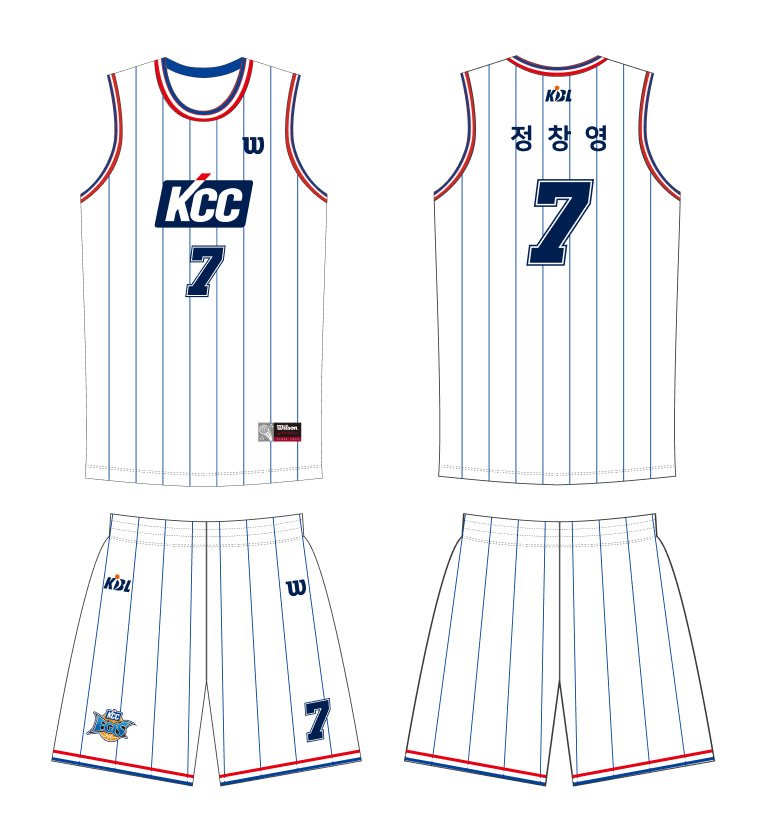
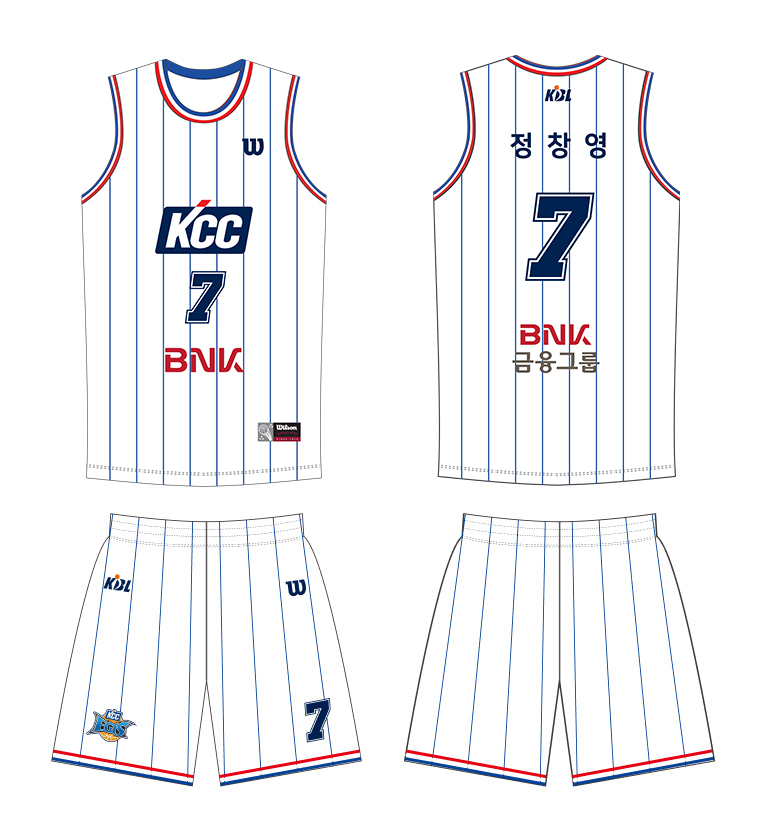
스폰서 추가, 관리자페이지 중계방송수정버튼 추가

diff --git a/src/main/webapp/resources/common/assets/js/link.js b/src/main/webapp/resources/common/assets/js/link.js
@@ -29,6 +29,7 @@ function siteLink() {
 		WILSON: 'https://kr.wilson.com/', // 윌슨
 		호식이두마리치킨: 'https://www.9922.co.kr/', // 호식이두마리치킨
 		MOMOS: 'https://www.momos.co.kr/', // 모모스
+		BUSAN: 'https://www.humetro.busan.kr/default/main.do', // 부산교통공사
 	}
 
 	const updateLink = (link, url) => $(link).attr('href', linkURL[url]);

diff --git a/src/main/java/com/esoom/kcc/controller/AdminController.java b/src/main/java/com/esoom/kcc/controller/AdminController.java
@@ -460,6 +460,21 @@ public class AdminController {
 		return String.valueOf(result);
 	}
 	@ResponseBody
+	@RequestMapping(value = "/tvUpdate", method = RequestMethod.GET)
+	public String tvUpdate(String tv_play,String season_code,String game_code,String game_no)throws Exception {
+		Map<String, Object> paramMap = new HashMap<String, Object>();
+		paramMap.put("tv_play", tv_play);
+		paramMap.put("season_code",season_code);
+		paramMap.put("game_code", game_code);
+		paramMap.put("game_no", game_no);
+		int result = service.updateTeamScheduleOnair(paramMap);
+		String result2 = "false";
+		if(result>0) {
+			result2 = "true";
+		}
+		return result2;
+	}
+	@ResponseBody
 	@RequestMapping(value = "/updateState", method = RequestMethod.GET)
 	public String updateState(int num,ModelAndView mv,String str)throws Exception {
 		Map<String, Object> paramMap = new HashMap<String, Object>();
@@ -2439,7 +2454,6 @@ public class AdminController {
 		String game_date = request.getParameter("game_date")!=null?request.getParameter("game_date"):"";
 		String game_start = request.getParameter("game_start")!=null?request.getParameter("game_start"):"";
 		String stadium_code = request.getParameter("stadium_code");
-		String tv_play = request.getParameter("tv_play")!=null?request.getParameter("tv_play"):"";
 		String hteam = request.getParameter("hteam");
 		String ateam = request.getParameter("ateam");
 		String[] hScore = new String[5];
@@ -2460,7 +2474,6 @@ public class AdminController {
 		paramMap.put("game_date", game_date.replaceAll("-", ""));
 		paramMap.put("game_start", game_start.replaceAll(":", ""));
 		paramMap.put("stadium_code", stadium_code);
-		paramMap.put("tv_play", tv_play);
 		paramMap.put("hteam", hteam);
 		paramMap.put("ateam", ateam);
 		List<Map<String,Object>> scoreList = new ArrayList<Map<String,Object>>();
@@ -2527,13 +2540,6 @@ public class AdminController {
 		if( result < 0) {
 			//스케줄실패
 			System.out.println("스케줄");
-			mv.addObject("msg", "서버 오류! 관리자에게 문의 바랍니다.");
-			mv.setViewName("admin/etc/gScheduleList");
-		}
-		int result2 = service.updateTeamScheduleOnair(paramMap);
-		if( result2 <0) {
-			//티비온에어실패
-			System.out.println("티비");
 			mv.addObject("msg", "서버 오류! 관리자에게 문의 바랍니다.");
 			mv.setViewName("admin/etc/gScheduleList");
 		}
